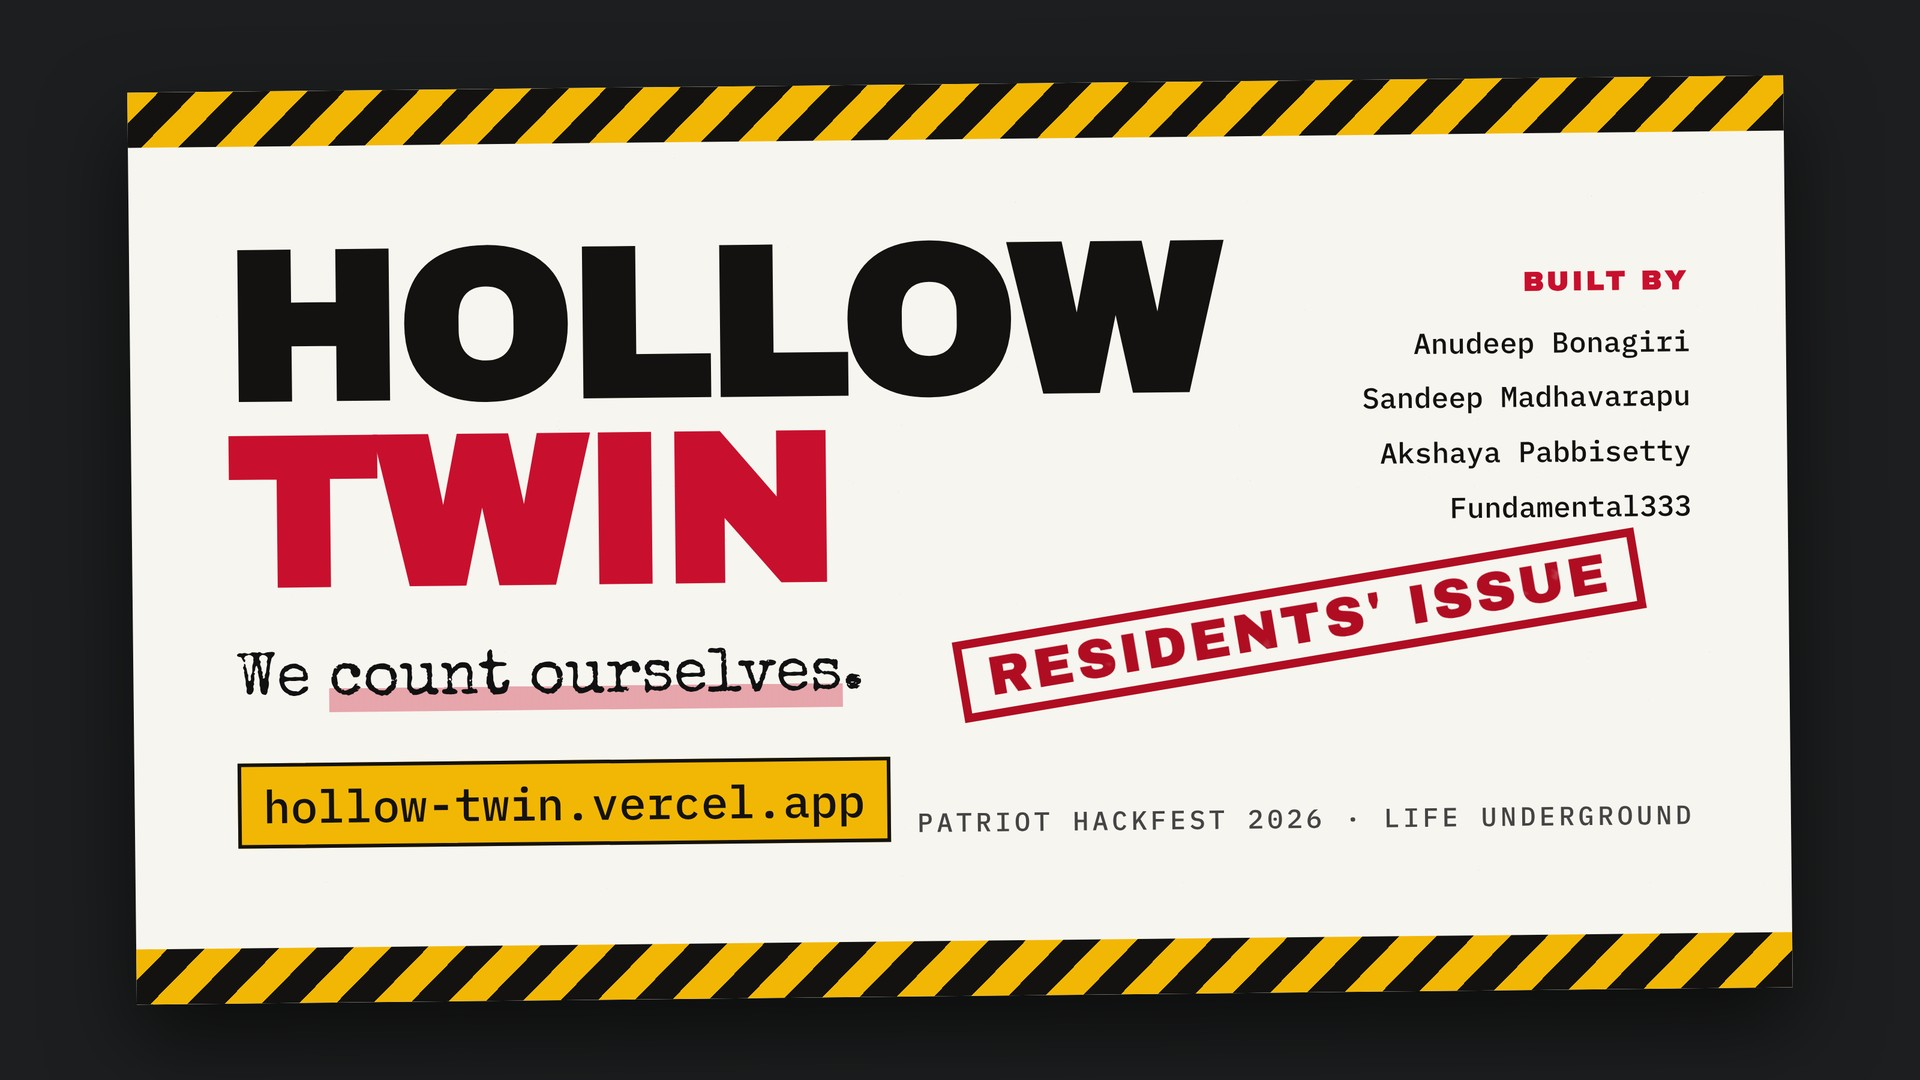
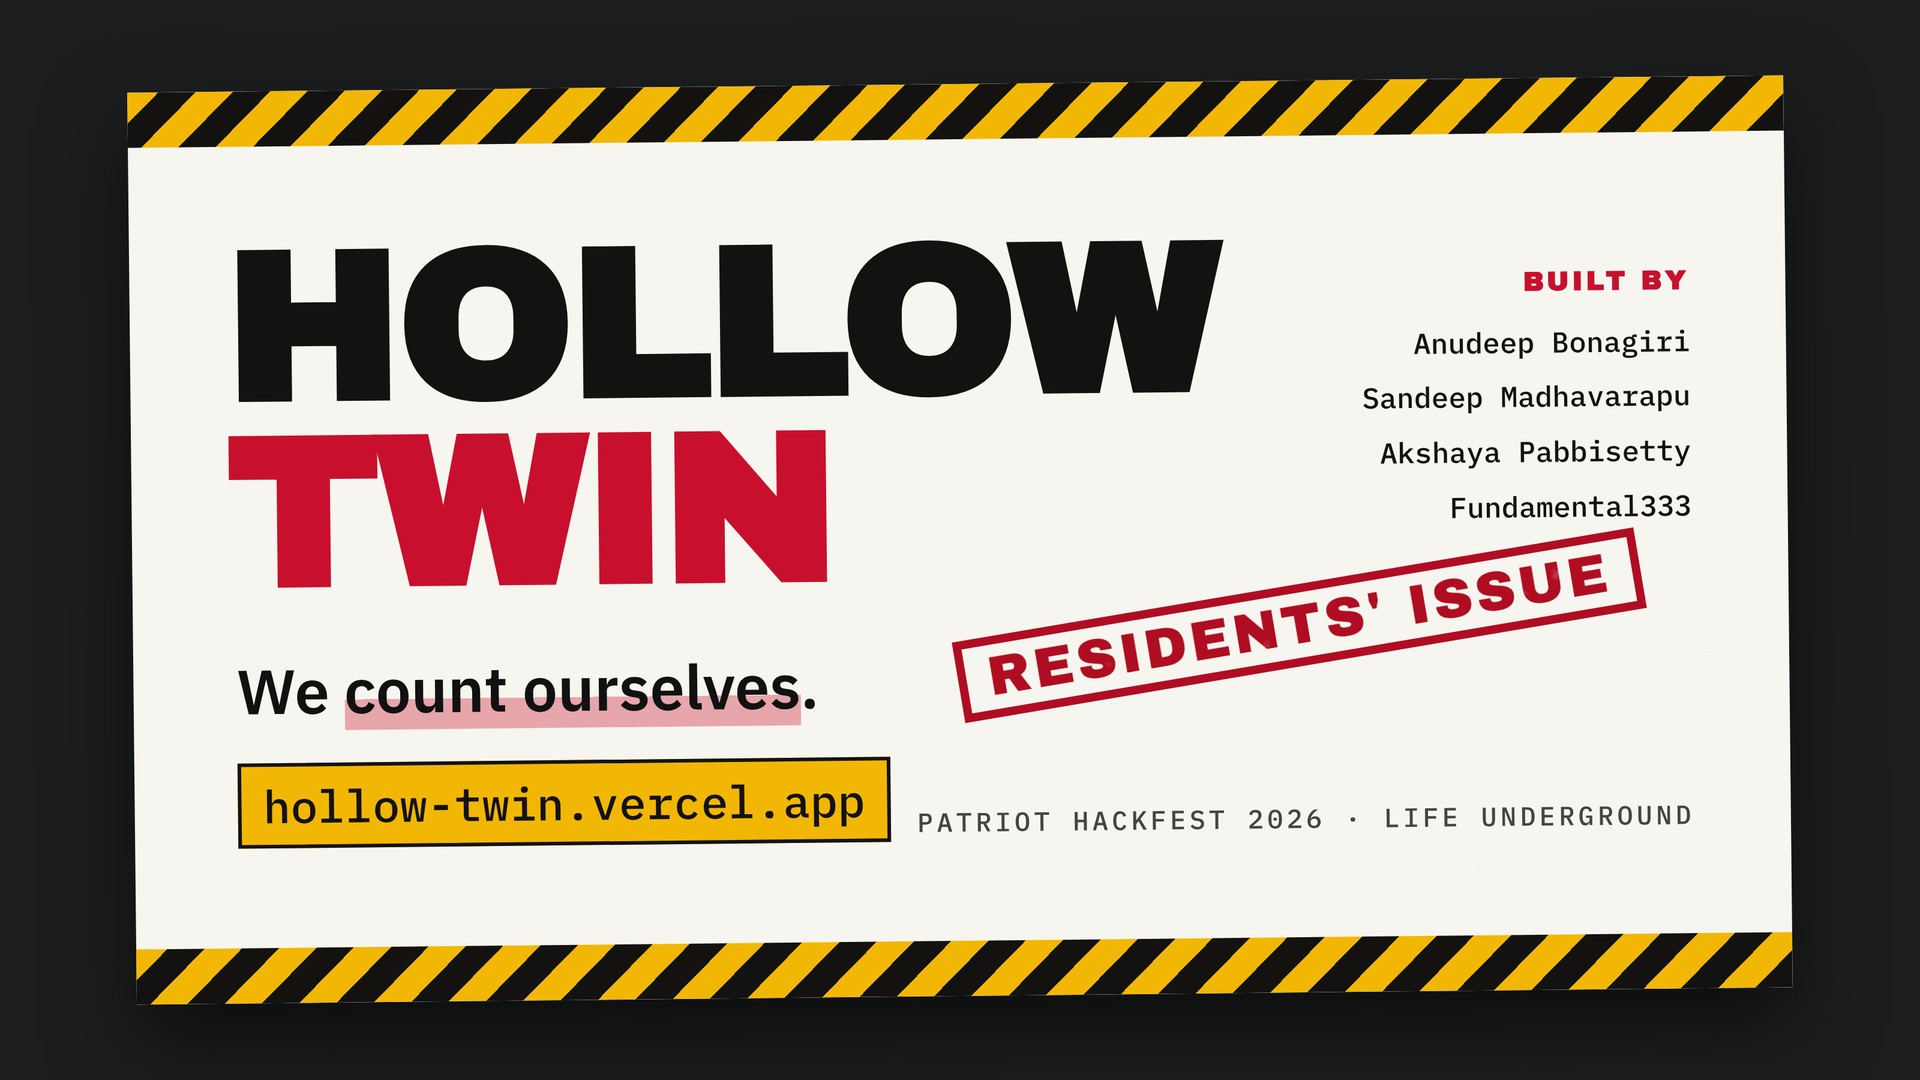
Video script to 3:00; readable font on hero, title and end cards
The video limit is 3:00 (3:15 hard cap): the script now has nine beats,
adding the family check-in, NEWS2 ranking and a how-it's-built beat.
Swap the Special Elite typewriter text for IBM Plex Sans and keep the
torn-paper edge off the truth card's text so it reads cleanly.

Claude-Session: https://claude.ai/code/session_01S8R6Jc9L3RcrjD2L4ha6v9

Changed region(s): [[0.125, 0.6111, 0.4688, 0.7028]]

diff --git a/docs/art/hero.html b/docs/art/hero.html
@@ -1,6 +1,6 @@
 <!doctype html>
 <html><head><meta charset="utf-8">
-<link href="https://fonts.googleapis.com/css2?family=Anton&family=Archivo+Black&family=Special+Elite&family=IBM+Plex+Mono:wght@500&display=swap" rel="stylesheet">
+<link href="https://fonts.googleapis.com/css2?family=Anton&family=Archivo+Black&family=IBM+Plex+Sans:wght@500;600&family=IBM+Plex+Mono:wght@500&display=swap" rel="stylesheet">
 <!-- Source of docs/img/hollow-twin-hero.jpg, hollow-twin-thumbnail.jpg and title-card.jpg. Open in Chrome at 1600 x 900 and take a screenshot at 2x. Original art. -->
 <style>
 :root { --red: #C8102E; --cream: #EADFC8; --ink: #141210; --wall: #1B1C1D; --yellow: #F2B705; }
@@ -30,7 +30,8 @@ body { position: relative; font-family: 'IBM Plex Mono', monospace; }
 .false { position: absolute; left: 232px; top: 168px; transform: rotate(-7deg); font-family: 'Archivo Black'; font-size: 100px; line-height: 1; color: #C8102E; letter-spacing: 10px;
   background: #FFFFFF; padding: 14px 40px 18px; border: 6px solid #141210; box-shadow: 0 10px 22px rgba(0,0,0,.45); }
 .false small { display: block; font: 21px 'IBM Plex Mono'; letter-spacing: 3px; color: #141210; margin-top: 6px; text-align: center; }
-.scrap { position: absolute; background: #F4F1E8; color: #111; font-family: 'Special Elite'; box-shadow: 0 8px 18px rgba(0,0,0,.45); filter: url(#torn); }
+.scrap { position: absolute; background: #F4F1E8; color: #111; font-family: 'IBM Plex Sans'; font-weight: 500; background: none; isolation: isolate; filter: drop-shadow(0 8px 12px rgba(0,0,0,.45)); }
+.scrap::before { content: ''; position: absolute; inset: 0; background: #F4F1E8; filter: url(#torn); z-index: -1; }
 .scrap.s1 { left: 532px; top: 506px; width: 336px; padding: 16px 24px 18px 22px; transform: rotate(3deg); font-size: 22px; line-height: 1.3; }
 .scrap.s1 b.h { font-family: 'Archivo Black'; font-size: 36px; color: #C8102E; display: block; line-height: 1; margin-bottom: 8px; letter-spacing: 1px; }
 .scrap.s1 .row { display: grid; grid-template-columns: 1fr auto; align-items: baseline; border-top: 2px dashed #999; padding-top: 6px; margin-top: 6px; }
@@ -45,10 +46,10 @@ body { position: relative; font-family: 'IBM Plex Mono', monospace; }
 .zine .issue { position: absolute; left: 40px; top: 74px; font: 18px 'IBM Plex Mono'; letter-spacing: 3px; color: #333; }
 .zine h1 { position: absolute; left: 36px; top: 108px; font-family: 'Archivo Black'; font-size: 94px; line-height: .9; color: var(--ink); letter-spacing: -2px; }
 .zine h1 span { color: var(--red); }
-.zine .tag { position: absolute; left: 40px; top: 312px; font-family: 'Special Elite'; font-size: 34px; color: #111; }
+.zine .tag { position: absolute; left: 40px; top: 312px; font-family: 'IBM Plex Sans'; font-weight: 600; font-size: 34px; color: #111; }
 .zine .tag u { text-decoration: none; background: linear-gradient(transparent 62%, rgba(200,16,46,.35) 62%); }
 .zine ol { position: absolute; left: 40px; right: 34px; top: 384px; list-style: none; }
-.zine li { display: grid; grid-template-columns: 54px 1fr; gap: 14px; align-items: start; margin-bottom: 20px; font-family: 'Special Elite'; font-size: 25px; line-height: 1.22; color: #111; }
+.zine li { display: grid; grid-template-columns: 54px 1fr; gap: 14px; align-items: start; margin-bottom: 20px; font-family: 'IBM Plex Sans'; font-weight: 500; font-size: 25px; line-height: 1.22; color: #111; }
 .zine li i { font-style: normal; font-family: 'Archivo Black'; font-size: 34px; color: #F7F5EF; background: var(--ink); text-align: center; line-height: 54px; height: 54px; }
 .zine li:nth-child(3) i { background: var(--red); }
 .zine .foot { position: absolute; left: 0; right: 0; bottom: 0; height: 66px; background: var(--ink); color: #F7F5EF; display: flex; align-items: center; justify-content: space-between; padding: 0 30px; font: 17px 'IBM Plex Mono'; letter-spacing: 2.5px; }

diff --git a/docs/art/end.html b/docs/art/end.html
@@ -1,4 +1,4 @@
-<!doctype html><html><head><meta charset="utf-8"><link href="https://fonts.googleapis.com/css2?family=Anton&family=Archivo+Black&family=Special+Elite&family=IBM+Plex+Mono:wght@500&display=swap" rel="stylesheet">
+<!doctype html><html><head><meta charset="utf-8"><link href="https://fonts.googleapis.com/css2?family=Anton&family=Archivo+Black&family=IBM+Plex+Sans:wght@500;600&family=IBM+Plex+Mono:wght@500&display=swap" rel="stylesheet">
 <!-- Source of docs/img/end-card.jpg. Open in Chrome at 1600 x 900 and take a screenshot at 2x. Original art. -->
 <style>
 * { box-sizing: border-box; margin: 0; padding: 0; }
@@ -9,7 +9,7 @@ html, body { width: 1600px; height: 900px; overflow: hidden; background: #1d1e1f
 .top { top: 0; } .bot { bottom: 0; }
 h1 { position: absolute; left: 80px; top: 120px; font-family: 'Archivo Black'; font-size: 176px; line-height: .88; color: #141210; letter-spacing: -3px; }
 h1 span { color: #C8102E; }
-.tag { position: absolute; left: 86px; top: 466px; font-family: 'Special Elite'; font-size: 52px; color: #111; }
+.tag { position: absolute; left: 86px; top: 466px; font-family: 'IBM Plex Sans'; font-weight: 600; font-size: 52px; color: #111; }
 .tag u { text-decoration: none; background: linear-gradient(transparent 62%, rgba(200,16,46,.35) 62%); }
 .link { position: absolute; left: 86px; top: 560px; font: 38px 'IBM Plex Mono'; color: #141210; background: #F2B705; padding: 8px 18px; border: 3px solid #141210; }
 .team { position: absolute; right: 80px; top: 150px; width: 420px; font: 24px/1.9 'IBM Plex Mono'; color: #141210; text-align: right; }

diff --git a/docs/VIDEO.md b/docs/VIDEO.md
@@ -1,36 +1,41 @@
-# The 2-minute video
+# The 3-minute video
 
-This is an online hackathon: judges never meet us. The video is the whole presentation, and some judges stop watching early, so **the first 10 seconds have to stand on their own**. Every number spoken is read off the screen in that take.
+This is an online hackathon: judges never meet us. The video is the whole presentation, and some judges stop watching early, so **the first 15 seconds have to stand on their own**. Every number spoken is read off the screen in that take.
 
-**Length: 2:00.** Check the platform's limit and trim beat 5 if it is shorter. Record at 1920 x 1080. **Burn the captions in**: many judges watch muted. Use our own voices. The thumbnail is [`img/hollow-twin-thumbnail.jpg`](img/hollow-twin-thumbnail.jpg).
+**Length: aim for 3:00. The hard limit is 3:15.** If a take runs long, shorten beat 8 first. Record at 1920 x 1080. **Burn the captions in**: many judges watch muted. Use our own voices. The thumbnail is [`img/hollow-twin-thumbnail.jpg`](img/hollow-twin-thumbnail.jpg).
 
 ## Shot list and narration
 
-About 270 spoken words: a calm pace, not a rush.
+About 350 spoken words: a calm pace, not a rush.
 
 | # | Time | On screen | Narration (word for word) |
 | --- | --- | --- | --- |
-| 1 | 0:00–0:12 | **One continuous take, no cuts**: a hand unplugs the router. It presses the Arduino's I'M OK button. The Pi's terminal prints `HELD`. The router goes back in; the Pi prints the upload, the twin draws "I'm OK" travelling up the lift, and Mom's phone watch buzzes "Dad is safe" | "The network is down. Dad presses one button. His message waits in the relay box, and the moment a line opens, his family knows he's alive." |
-| 2 | 0:12–0:20 | Title card ([`img/title-card.jpg`](img/title-card.jpg)): the Directorate's poster stamped FALSE | "This is Hollow Twin." |
-| 3 | 0:20–0:40 | Twin, story beat 1: the descent into the Hollow, the cutaway of nine levels | "Thirty-two million people live underground in the Hollow. The Directorate controls the power, the network, and the numbers. And the deeper you live, the less you get." |
-| 4 | 0:40–1:05 | Story beats 2 to 4: blocks tagged with hours left; hour 30 under the Directorate's rule; the same hours under fair share | "When a geothermal unit fails, Hollow Twin forecasts every block's battery and warns the ones about to go dark, hours ahead. Under the Directorate's rule, twelve deep blocks are dark by hour thirty. Same failure, same power, one fair rule: life support first, then shared per person. No block goes dark." |
-| 5 | 1:05–1:25 | The family watch on a phone, filmed in a hand: cut the network, hold HELP; the radio route lights up; Mom's watch turns red. Then the 3D watch page: the antenna glows, radio rings spread, the help queue shows the call ranked by its vitals | "When the Directorate cuts the network, our watches keep talking. A help call hops relay to relay, reaches the family, and joins the rescue queue, ranked by the caller's blood oxygen and pulse." |
-| 6 | 1:25–1:40 | AR: the watch appearing on a real wrist through the phone camera; then the scout rover placed on a real floor and walked around. Then the twin: the rover riding the lift to Deepwell | "You can try the watch on your own wrist. And where even the relays can't reach, our scout rover drives the tunnels with a med kit, and brings the cut-off block's messages back out." |
-| 7 | 1:40–1:53 | The README's "What is real and what is simulated" table, then a block card with an alert citing its limit | "Every alert cites a published safety standard, and every number says where it came from: a real device, scripted data, or the simulation. The Arduino and Pi are real; the rover and radios are designed, not built." |
-| 8 | 1:53–2:00 | End card ([`img/end-card.jpg`](img/end-card.jpg)): the link and the four names. Our faces for two seconds before it, if we can | "Hollow Twin. We count ourselves." |
+| 1 | 0:00–0:15 | **One continuous take, no cuts**: a hand unplugs the router. It presses the Arduino's I'M OK button. The Pi's terminal prints `HELD`. The router goes back in; the Pi prints the upload, the twin draws "I'm OK" travelling up the lift, and Mom's phone watch buzzes "Dad is safe" | "The network is down. Dad presses one button. His message waits in the relay box, and the moment a line opens, his family knows he's alive." |
+| 2 | 0:15–0:22 | Title card ([`img/title-card.jpg`](img/title-card.jpg)): the Directorate's poster stamped FALSE | "This is Hollow Twin." |
+| 3 | 0:22–0:45 | Twin, story beat 1: the descent into the Hollow, the cutaway of nine levels | "Thirty-two million people live underground in the Hollow, in seventy blocks across nine levels. The Directorate controls the power, the network, and the numbers. And the deeper you live, the less you get." |
+| 4 | 0:45–1:25 | Story beats 2 to 4: the geothermal unit fails at hour 4; blocks tagged with hours left; hour 30 under the Directorate's rule; the same hours under fair share | "When a geothermal unit fails, Hollow Twin forecasts every block's battery, hour by hour, and warns the blocks about to go dark before it happens. Under the Directorate's rule, upper levels first, twelve deep blocks are dark by hour thirty. That's eight and a half million people without air fans. Same failure, same power, one fair rule: life support first, then shared per person. No block goes dark." |
+| 5 | 1:25–1:55 | The family watch on a phone, filmed in a hand: tap I'M OK, the family list; cut the network, hold HELP; the radio route lights up; Mom's watch turns red | "Families wear our watch. One tap says I'm OK, and everyone in the family sees who is safe. When the Directorate cuts the network, the watches keep talking. A help call hops radio relay to relay until it reaches the family." |
+| 6 | 1:55–2:15 | The 3D watch page: "Lung sickness" preset, HELP held, the help queue ranks the call at 115 | "Every help call joins the rescue queue, ranked by the caller's blood oxygen and pulse using NEWS2, the early warning score hospitals use. This caller's oxygen is eighty-nine, so they go to the top." |
+| 7 | 2:15–2:35 | AR: the watch on a real wrist through the phone camera; the scout rover placed on a real floor. Then the twin: the rover riding the lift to Deepwell | "You can try the watch on your own wrist, right in your browser. And where even the relays can't reach, our scout rover drives the tunnels with a med kit, and brings the cut-off block's messages back out." |
+| 8 | 2:35–2:50 | The Arduino and Pi on the desk; the API tests passing (135); the 3D watch's Parts tab | "Under the hood: a real Arduino and Raspberry Pi relay, a live API on Azure with a hundred thirty-five tests, and a watch designed part by part in CAD, about sixty-four dollars to build." |
+| 9 | 2:50–3:05 | The README's "What is real and what is simulated" table, then the end card ([`img/end-card.jpg`](img/end-card.jpg)) | "Every alert cites a published safety standard, and every number says where it came from. The Arduino and Pi are real; the rover and radios are designed, not built. Hollow Twin. We count ourselves." |
 
 ## Getting each shot
 
-- **Beat 1 (the most important 12 seconds):** follow [`HARDWARE.md`](HARDWARE.md), "What to film". Keep the router, the Arduino, the Pi's screen and the phone in one frame, or split-screen the Pi's terminal next to the camera, but **never cut inside the take**. The phone watch is Mom: open `/watch/?api=<API>&device=watch-0011&name=Mom&block=l1-winch-gallery&to=watch-0071=Maya,watch-0012=Dad` and enter the key in Settings.
-- **Beats 3 and 4:** open the twin with `?intro=0` and press **Play the 75-second story** (or `?story=1`). Record the beats, then speed up or trim the waiting in the edit. Turn the on-screen captions into the narration rather than reading them.
-- **Beat 5:** the phone watch as Maya (the default) on the live API, with the key entered in Settings. Then `/watch/device/?api=<API>` with the key in **Connect**, the "Lung sickness" preset on, and HELP held. The API scores that call 115.
-- **Beat 6:** `/ar/` on a phone. For the wrist: good light, the back of the wrist toward the camera, the other hand holding the phone. For the rover: **View in your room**, pointed at the floor. Screen-record the phone.
+- **Beat 1 (the most important 15 seconds):** follow [`HARDWARE.md`](HARDWARE.md), "What to film". Keep the router, the Arduino, the Pi's screen and the phone in one frame, or split-screen the Pi's terminal next to the camera, but **never cut inside the take**. The phone watch is Mom: open `/watch/?api=<API>&device=watch-0011&name=Mom&block=l1-winch-gallery&to=watch-0071=Maya,watch-0012=Dad` and enter the key in Settings. Never show the key on screen.
+- **Beats 3 and 4:** open the twin with `?intro=0` and press **Play the 75-second story** (or `?story=1`). Leave the API empty: live data changes the 12-blocks number. Record the beats, then trim the waiting in the edit.
+- **Beat 5:** `/watch/` on a phone in demo mode: I'M OK, then cut the network, then hold HELP.
+- **Beat 6:** `/watch/device/?api=<API>` with the key in **Connect**, the "Lung sickness" preset on, and HELP held. The API scores that call 115.
+- **Beat 7:** `/ar/` on a phone. For the wrist: good light, the back of the wrist toward the camera. For the rover: **View in your room**, pointed at the floor. Screen-record the phone.
+- **Beat 8:** screen-record `npm test` in `api/` (135 passing), then the Parts tab on `/watch/device/`.
 
 ## Before uploading
 
-- [ ] The first 10 seconds make sense with the sound off.
-- [ ] Every number spoken is on screen in that take (12 blocks, hour 30, 115).
-- [ ] Nothing claims a device that does not exist: say "simulated relays" where they are, and "designed, not built" for the rover.
+- [ ] Runtime is under 3:15.
+- [ ] The first 15 seconds make sense with the sound off.
+- [ ] Every number spoken is on screen in that take (12 blocks, hour 30, 8.5 million, 115, 135 tests).
+- [ ] Nothing claims a device that does not exist: "designed, not built" for the rover and radios.
+- [ ] No API key is visible in any frame.
 - [ ] The captions are readable on a phone.
 - [ ] Uploaded (YouTube, unlisted), played once in a logged-out browser, and the link put in `README.md` (`VIDEO_LINK`) and in the submission.
 - [ ] A second take is saved as a backup.

diff --git a/README.md b/README.md
@@ -6,7 +6,7 @@
 
 Patriot HackFest Fall 2026, Life Underground track. Problems 1, 2, 7, 8 and 10.
 
-### ▶ [Watch the 2-minute video](VIDEO_LINK)
+### ▶ [Watch the 3-minute video](VIDEO_LINK)
 
 ## Try it in 30 seconds
 
